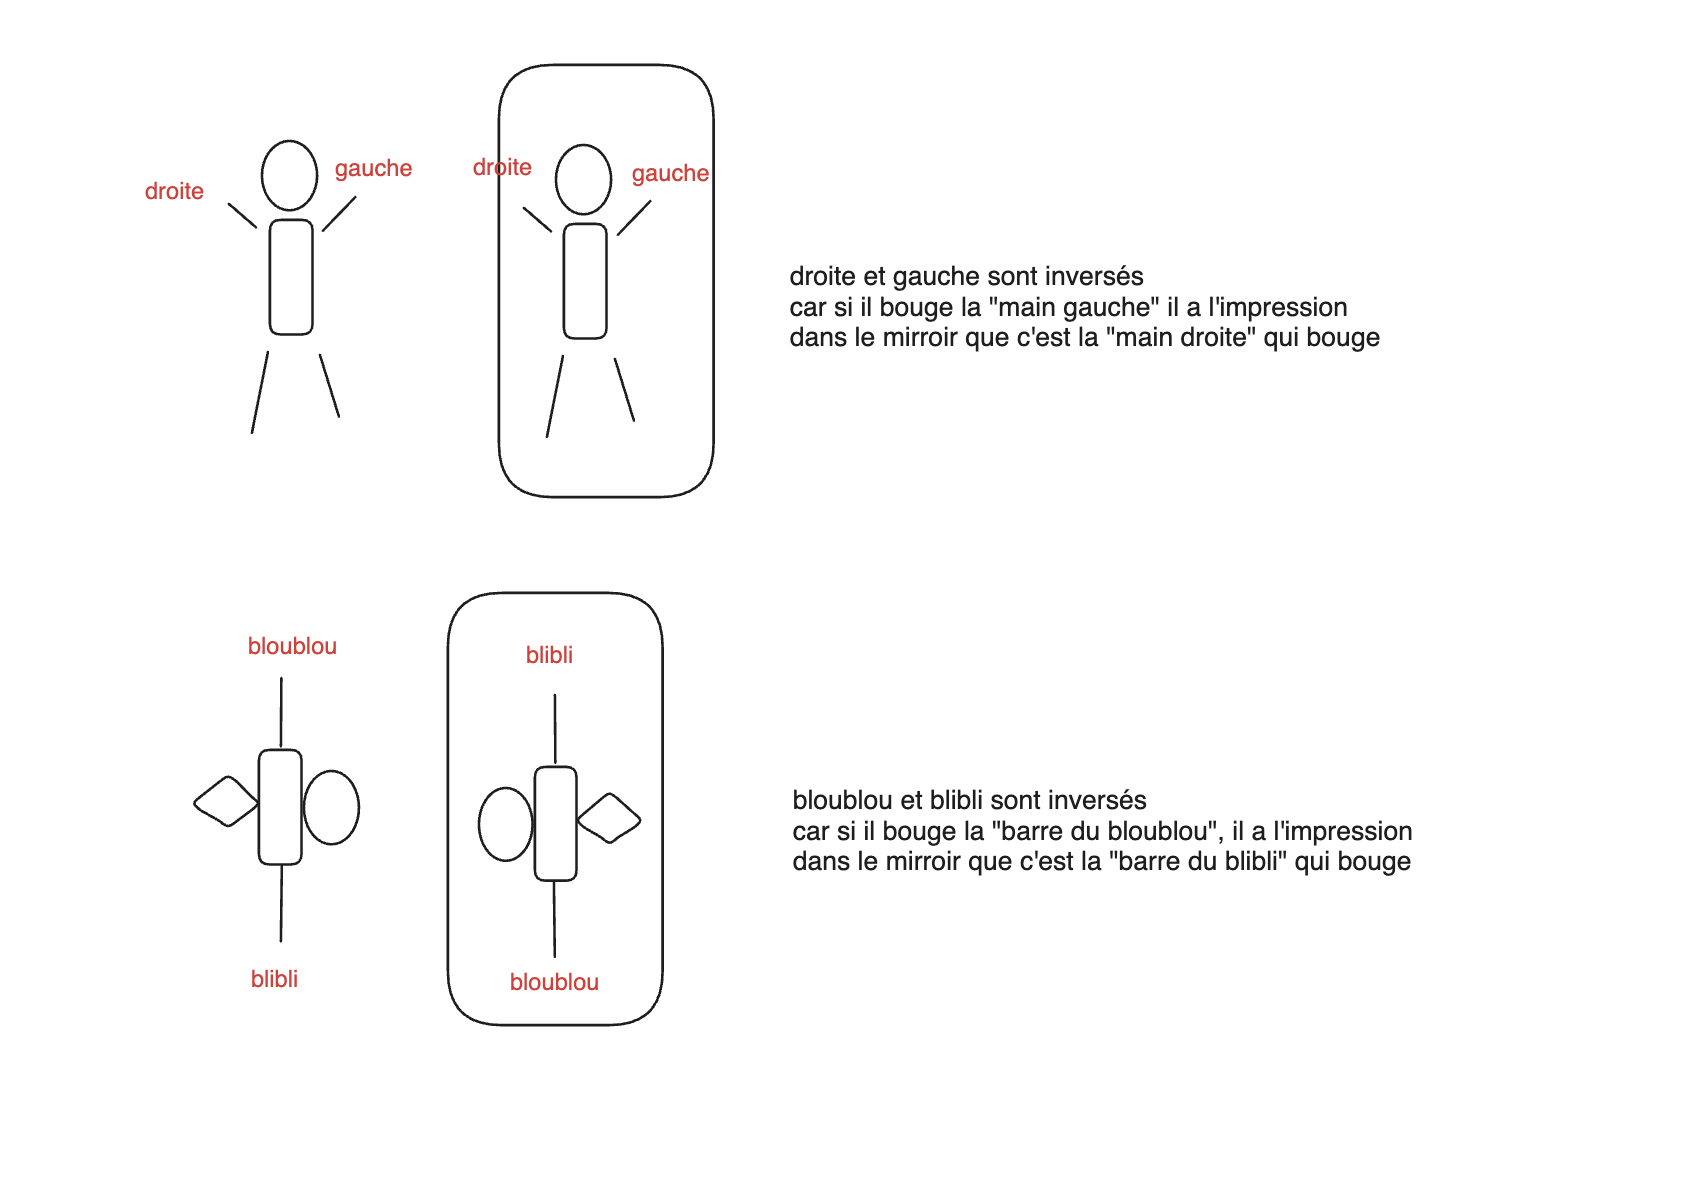
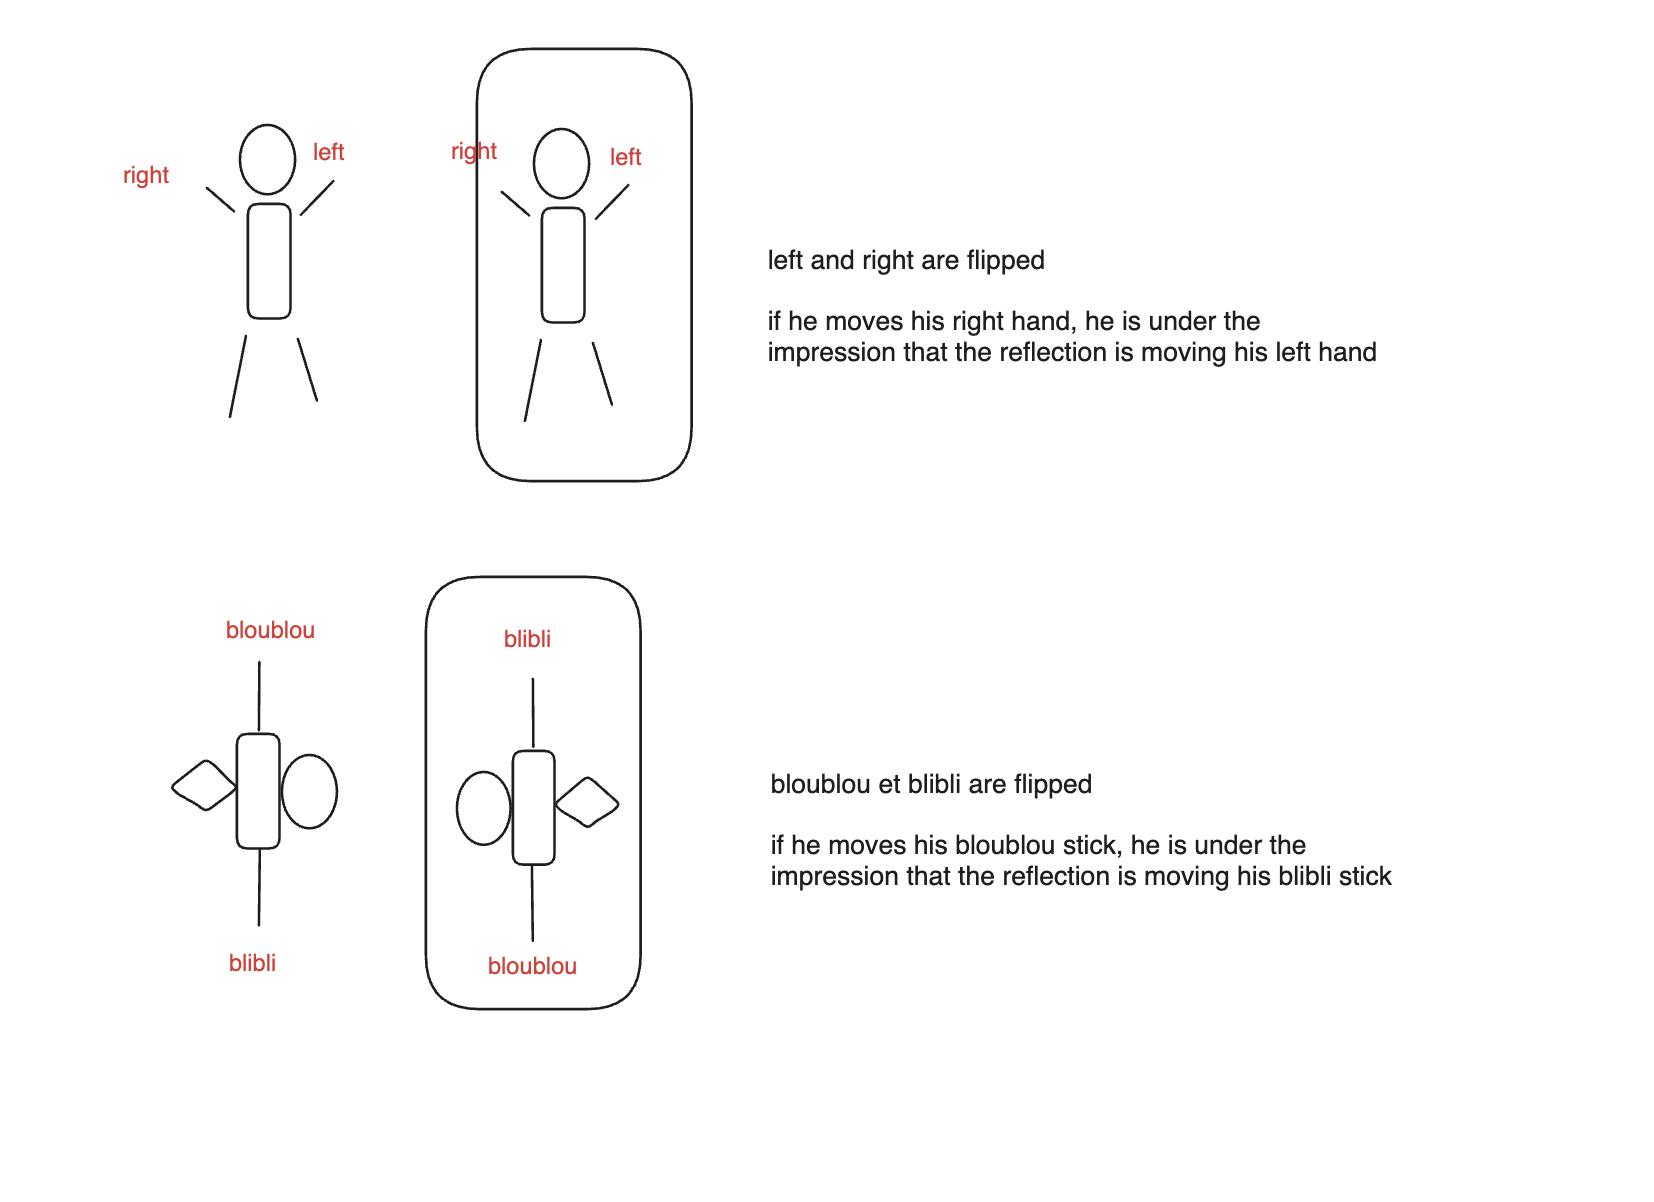
Built site for gh-pages

diff --git a/index.html b/index.html
@@ -183,7 +183,7 @@ ul.task-list li input[type="checkbox"] {
 
 <div class="quarto-listing quarto-listing-container-default" id="listing-listing">
 <div class="list quarto-listing-default">
-<div class="quarto-post image-right" data-index="0" data-categories="riddle" data-listing-date-sort="1742079600000" data-listing-file-modified-sort="1742133774551" data-listing-date-modified-sort="NaN" data-listing-reading-time-sort="2" data-listing-word-count-sort="234">
+<div class="quarto-post image-right" data-index="0" data-categories="riddle" data-listing-date-sort="1742079600000" data-listing-file-modified-sort="1742134013307" data-listing-date-modified-sort="NaN" data-listing-reading-time-sort="2" data-listing-word-count-sort="234">
 <div class="thumbnail">
 <p><a href="./posts/2025-03-16-mirror-flip.html"></a></p><a href="./posts/2025-03-16-mirror-flip.html">
 <p class="card-img-top"><img src="posts/mirror-flip.png"  class="thumbnail-image card-img"/></p>

diff --git a/posts/2025-03-16-mirror-flip.html b/posts/2025-03-16-mirror-flip.html
@@ -161,7 +161,7 @@ ul.task-list li input[type="checkbox"] {
 <p>The way I understand it is the following:</p>
 <ul>
 <li><p>The mirror is simply reflecting everything exactly in front of where it is. There is not yet any concept of right/left or top/bottom</p></li>
-<li><p>Since, as humans, we are used to refer to left and right in reference to our head and feet, we are under the impression that the being in the mirror is moving its left hand. But notice that if we defined “right” as “the side of the heart”, than we could not say that the reflection is moving his left hand. So this is only in reference to the head and feet.</p></li>
+<li><p>Since, as humans, we are used to refer to left and right in reference to our head and feet, we are under the impression that the being in the mirror is moving its left hand. But notice that if we define “right” as “the side of the heart”, then we could not say that the reflection is moving his left hand. So this is only in reference to the head and feet.</p></li>
 <li><p>Picture a being that is symmetric in the other direction, as pictured here. We would call “bloublou” and “blibli” the 2 directions that are similar looking in the mirror. For that being, moving the “bloublou” side and looking into the mirror, it would be under the impression that the “blibli” side is moving. Because compared to the non-symmetrical parts of his body, this is what seems to be moving.</p></li>
 </ul>
 <div class="quarto-figure quarto-figure-center">

diff --git a/riddles.html b/riddles.html
@@ -181,7 +181,7 @@ ul.task-list li input[type="checkbox"] {
 
 <div class="quarto-listing quarto-listing-container-default" id="listing-listing">
 <div class="list quarto-listing-default">
-<div class="quarto-post image-right" data-index="0" data-categories="riddle" data-listing-date-sort="1742079600000" data-listing-file-modified-sort="1742133774551" data-listing-date-modified-sort="NaN" data-listing-reading-time-sort="2" data-listing-word-count-sort="234">
+<div class="quarto-post image-right" data-index="0" data-categories="riddle" data-listing-date-sort="1742079600000" data-listing-file-modified-sort="1742134013307" data-listing-date-modified-sort="NaN" data-listing-reading-time-sort="2" data-listing-word-count-sort="234">
 <div class="thumbnail">
 <p><a href="./posts/2025-03-16-mirror-flip.html"></a></p><a href="./posts/2025-03-16-mirror-flip.html">
 <p class="card-img-top"><img src="posts/mirror-flip.png"  class="thumbnail-image card-img"/></p>